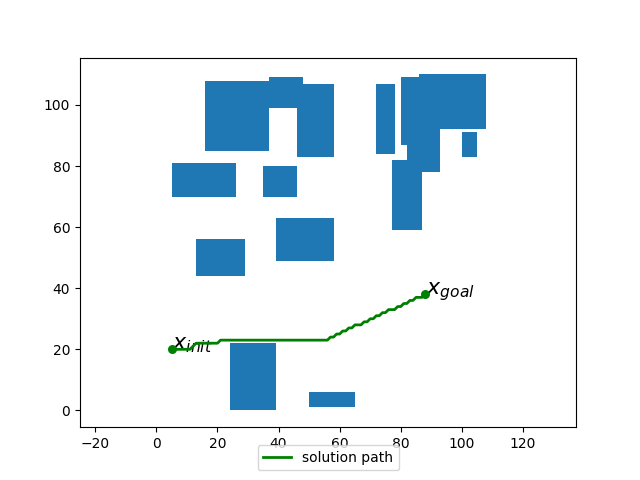
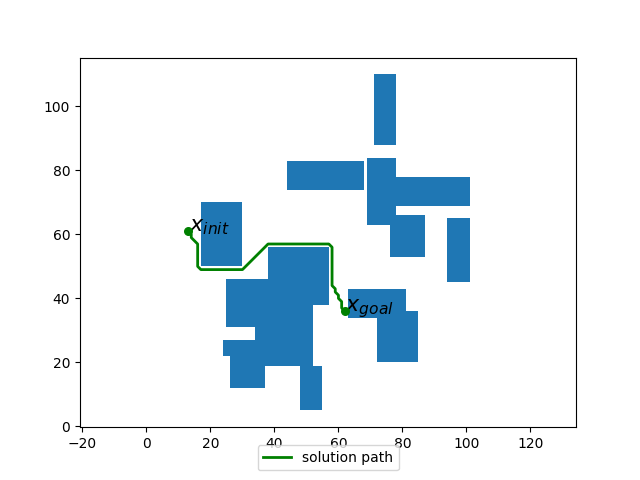
changed the figure

diff --git a/Problem_1/astar.py b/Problem_1/astar.py
@@ -222,32 +222,32 @@ class DetOccupancyGrid2D(object):
 ### TESTING
 
 # A simple example
-width = 10
-height = 10
-x_init = (0,0)
-x_goal = (8,8)
-obstacles = [((6,6),(8,7)),((2,1),(4,2)),((2,4),(4,6)),((6,2),(8,4))]
-occupancy = DetOccupancyGrid2D(width, height, obstacles)
+# width = 10
+# height = 10
+# x_init = (0,0)
+# x_goal = (8,8)
+# obstacles = [((6,6),(8,7)),((2,1),(4,2)),((2,4),(4,6)),((6,2),(8,4))]
+# occupancy = DetOccupancyGrid2D(width, height, obstacles)
 
 # A large random example
-# width = 101
-# height = 101
-# num_obs = 15
-# min_size = 5
-# max_size = 25
-# obs_corners_x = np.random.randint(0,width,num_obs)
-# obs_corners_y = np.random.randint(0,height,num_obs)
-# obs_lower_corners = np.vstack([obs_corners_x,obs_corners_y]).T
-# obs_sizes = np.random.randint(min_size,max_size,(num_obs,2))
-# obs_upper_corners = obs_lower_corners + obs_sizes
-# obstacles = zip(obs_lower_corners,obs_upper_corners)
-# occupancy = DetOccupancyGrid2D(width, height, obstacles)
-# x_init = tuple(np.random.randint(0,width-2,2).tolist())
-# x_goal = tuple(np.random.randint(0,height-2,2).tolist())
-# while not (occupancy.is_free(x_init
-# ) and occupancy.is_free(x_goal)):
-#     x_init = tuple(np.random.randint(0,width-2,2).tolist())
-#     x_goal = tuple(np.random.randint(0,height-2,2).tolist())
+width = 101
+height = 101
+num_obs = 15
+min_size = 5
+max_size = 25
+obs_corners_x = np.random.randint(0,width,num_obs)
+obs_corners_y = np.random.randint(0,height,num_obs)
+obs_lower_corners = np.vstack([obs_corners_x,obs_corners_y]).T
+obs_sizes = np.random.randint(min_size,max_size,(num_obs,2))
+obs_upper_corners = obs_lower_corners + obs_sizes
+obstacles = zip(obs_lower_corners,obs_upper_corners)
+occupancy = DetOccupancyGrid2D(width, height, obstacles)
+x_init = tuple(np.random.randint(0,width-2,2).tolist())
+x_goal = tuple(np.random.randint(0,height-2,2).tolist())
+while not (occupancy.is_free(x_init
+) and occupancy.is_free(x_goal)):
+    x_init = tuple(np.random.randint(0,width-2,2).tolist())
+    x_goal = tuple(np.random.randint(0,height-2,2).tolist())
 
 astar = AStar((0, 0), (width, height), x_init, x_goal, occupancy)
 
